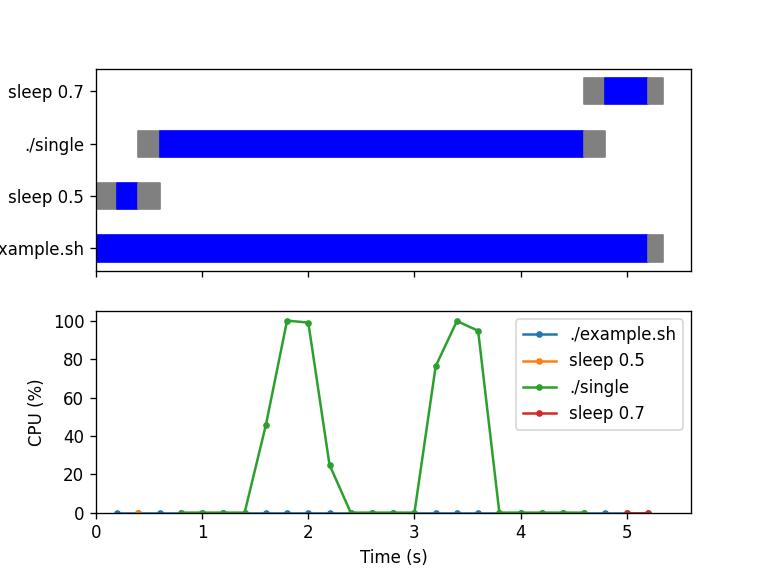
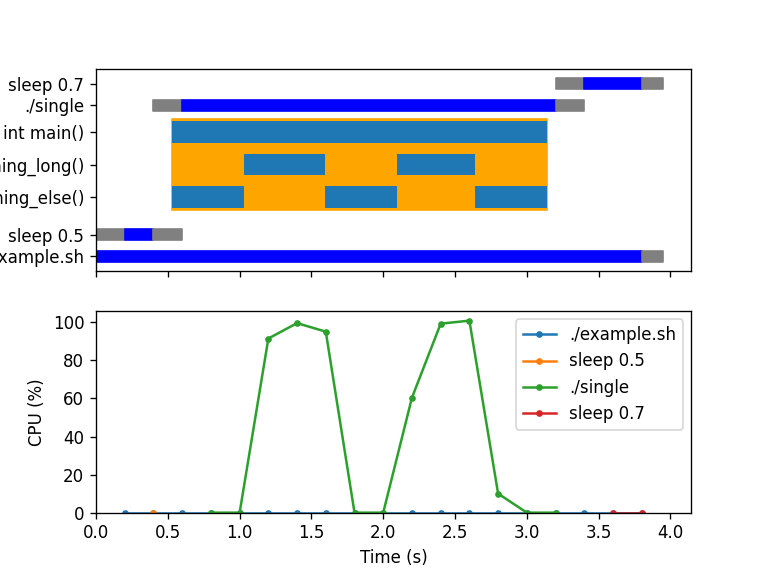
Use system time in C++ instrumentation

diff --git a/Chrones/command_line_interface.py b/Chrones/command_line_interface.py
@@ -1,9 +1,11 @@
 # Copyright 2020-2022 Laurent Cabaret
 # Copyright 2020-2022 Vincent Jacques
 
+import dataclasses
+import glob
 import pickle
 import shlex
-import subprocess
+from typing import Dict, List, Tuple
 import click
 import matplotlib.pyplot as plt
 
@@ -11,6 +13,7 @@ import matplotlib.pyplot as plt
 from .instrumentation import shell as shell_instrumentation
 from .instrumentation import cpp as cpp_instrumentation
 from .monitoring.runner import Runner, RunResults, Process
+from . import report as chrones_report
 
 
 @click.group
@@ -71,35 +74,86 @@ def report():
 
     chrones_ticks_ys = []
     chrones_ticks_labels = []
-    process_index = 0
-    def plot_chrones(process: Process):
+    bottom_y = 0
+    def plot_chrones(chrones_file_name):
         nonlocal chrones_ticks_ys
         nonlocal chrones_ticks_labels
-        nonlocal process_index
+        nonlocal bottom_y
+
+        @dataclasses.dataclass
+        class Thread:
+            stack: List[chrones_report.Event]
+            chrones: Dict[str, Tuple[float, float]]
+            first_event: chrones_report.Event
+            last_event: chrones_report.Event
+
+        threads = {}
+        with chrones_report.open_events_file(chrones_file_name) as events:
+            for event in events:
+                event.timestamp /= 1e9
+
+                thread = threads.setdefault(event.thread_id, Thread([], {}, None, None))
+                if thread.first_event is None:
+                    thread.first_event = event
+                thread.last_event = event
+
+                if event.__class__ == chrones_report.StopwatchStart:
+                    thread.stack.append(event)
+                elif event.__class__ == chrones_report.StopwatchStop:
+                    start_event = thread.stack.pop()
+                    assert start_event.label is None
+                    bars = thread.chrones.setdefault(start_event.function_name, [])
+                    bars.append((start_event.timestamp - origin_timestamp, event.timestamp - start_event.timestamp))
+                else:
+                    assert False
+        threads = list(threads.values())
+        assert all(t.stack == [] for t in threads)
+
+        for thread in threads:
+            if thread.chrones:
+                chrones_ax.broken_barh(
+                    [(thread.first_event.timestamp - origin_timestamp, thread.last_event.timestamp - thread.first_event.timestamp)],
+                    (bottom_y + 0.75, len(thread.chrones) * 3 - 0.5),
+                    color="orange"
+                )
+                for (name, bars) in thread.chrones.items():
+                    chrones_ax.broken_barh(bars, (bottom_y + 1, 2))
+                    chrones_ticks_ys.append(bottom_y + 2)
+                    chrones_ticks_labels.append(name)
+                    bottom_y += 3
+                bottom_y += 1
+
+    def plot_processes(process: Process):
+        nonlocal chrones_ticks_ys
+        nonlocal chrones_ticks_labels
+        nonlocal bottom_y
         # print(process.command, process.started_between_timestamps[0], process.started_between_timestamps[1], process.terminated_between_timestamps)
+        chrones_file_names = glob.glob(f"*.{process.pid}.chrones.csv")
+        if len(chrones_file_names) == 1:
+            plot_chrones(chrones_file_names[0])
         chrones_ax.broken_barh(
             [(process.started_between_timestamps[0] - origin_timestamp, process.started_between_timestamps[1] - process.started_between_timestamps[0])],
-            (process_index, 1),
+            (bottom_y, 1),
             color="grey"
         )
         chrones_ax.broken_barh(
             [(process.started_between_timestamps[1] - origin_timestamp, process.terminated_between_timestamps[0] - process.started_between_timestamps[1])],
-            (process_index, 1),
+            (bottom_y, 1),
             color="blue"
         )
         chrones_ax.broken_barh(
             [(process.terminated_between_timestamps[0] - origin_timestamp, process.terminated_between_timestamps[1] - process.terminated_between_timestamps[0])],
-            (process_index, 1),
+            (bottom_y, 1),
             color="grey"
         )
-        chrones_ticks_ys.append(process_index + 0.5)
+        chrones_ticks_ys.append(bottom_y + 0.5)
         chrones_ticks_labels.append(shlex.join(process.command)[-40:] or "*empty*")
         # chrones_ticks_labels.append(process.pid)
-        process_index += 2
+        bottom_y += 2
         for child_process in process.children:
-            plot_chrones(child_process)
+            plot_processes(child_process)
 
-    plot_chrones(results.main_process)
+    plot_processes(results.main_process)
     chrones_ax.set_yticks(chrones_ticks_ys, labels=chrones_ticks_labels)
 
 

diff --git a/Chrones/instrumentation/cpp/chrones.hpp b/Chrones/instrumentation/cpp/chrones.hpp
@@ -635,10 +635,9 @@ labelled_light_stopwatch_tmpl<Info> light_stopwatch_tmpl(
 }
 
 struct RealInfo {
-  static std::chrono::steady_clock::time_point startup_time;
-
   static int64_t get_time() {
-    return std::chrono::nanoseconds(std::chrono::steady_clock::now() - startup_time).count();
+    const auto now = std::chrono::system_clock::now();
+    return std::chrono::duration_cast<std::chrono::nanoseconds>(now.time_since_epoch()).count();
   }
 
   static int get_process_id() {
@@ -684,8 +683,6 @@ extern coordinator global_coordinator;
 
 #define CHRONABLE(name) \
   namespace chrones { \
-    std::chrono::steady_clock::time_point RealInfo::startup_time = std::chrono::steady_clock::now(); \
-\
     std::ofstream global_stream( \
       std::string(name) + "." + std::to_string(::getpid()) + ".chrones.csv", std::ios_base::app); \
 \

diff --git a/Chrones/instrumentation/cpp/chrones-perf-tests.cpp b/Chrones/instrumentation/cpp/chrones-perf-tests.cpp
@@ -12,11 +12,6 @@
 #include "chrones.hpp"
 
 
-// We don't want/need to call CHRONABLE in this file, so we have to define 'RealInfo::startup_time'
-namespace chrones {
-  std::chrono::steady_clock::time_point RealInfo::startup_time = std::chrono::steady_clock::now();
-}
-
 using chrones::coordinator;
 using chrones::heavy_stopwatch;
 using chrones::light_stopwatch;

diff --git a/README.md b/README.md
@@ -249,16 +249,16 @@ And the various executables called by the script:
     void something_else() {
       CHRONE();
 
-      std::this_thread::sleep_for(1000ms);
+      std::this_thread::sleep_for(500ms);
     }
 
     int main() {
       CHRONE();
 
       {
-        CHRONE("loop");
+        // @todo CHRONE("loop");
         for (int i = 0; i != 2; ++i) {
-          CHRONE("iteration", i);
+          // @todo CHRONE("iteration", i);
 
           something_else();
           something_long();
